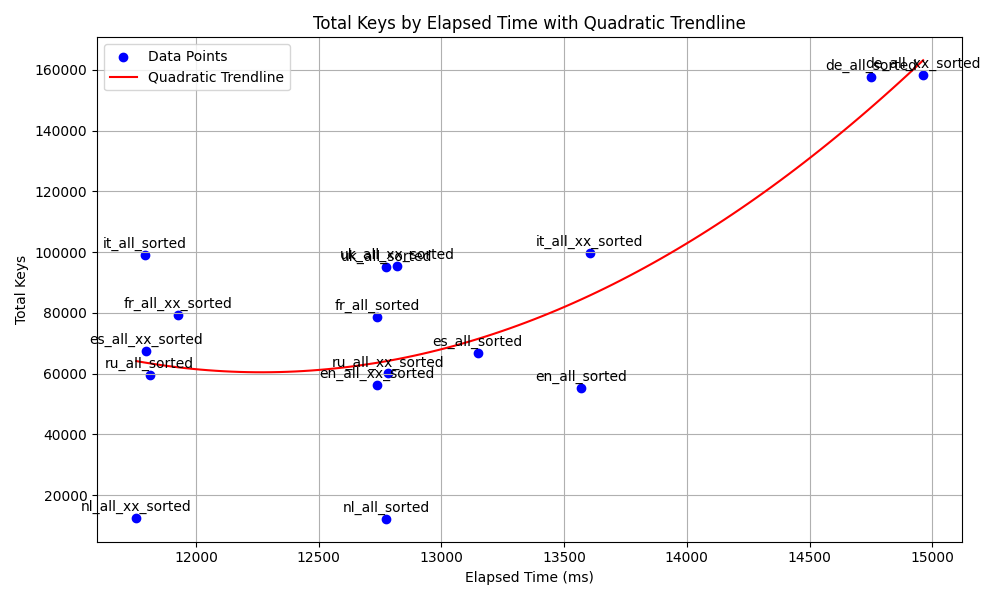
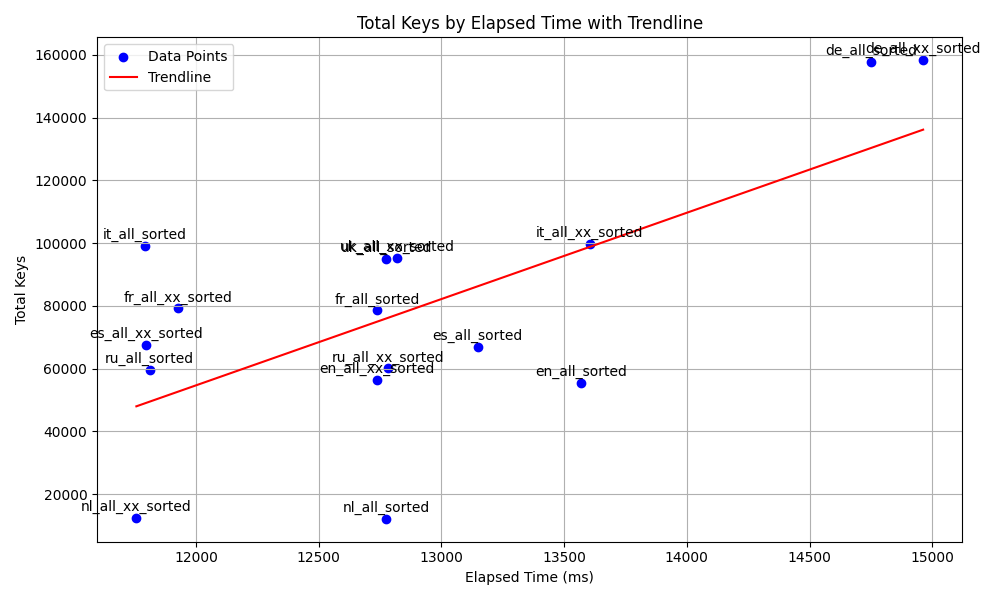
add runtime visualization and new stats JSON files; update plotting functions

diff --git a/output/visualize.py b/output/visualize.py
@@ -22,10 +22,10 @@ def plot_top_10():
             plt.close()
 
 def plot_top_10_in_one():
-    dirs = [d for d in os.listdir('.') if os.path.isdir(d) and d.endswith('_sorted') and "xx" in d]
+    dirs = [d for d in os.listdir('.') if os.path.isdir(d) and d.endswith('_sorted') and "xx" not in d]
     num_dirs = len(dirs)
     
-    cols = 3
+    cols = 4
     rows = math.ceil(num_dirs / cols)  # Calculate the number of rows needed
     
     fig, axs = plt.subplots(rows, cols, figsize=(15, 5 * rows))  # Create subplots
@@ -45,7 +45,7 @@ def plot_top_10_in_one():
         axs[j].axis('off')
     
     plt.tight_layout()
-    plt.savefig('all_sorted_xx_top10.png')  # Save the combined figure
+    plt.savefig('all_sorted_top10.png')  # Save the combined figure
     plt.close()
 
 
@@ -119,7 +119,7 @@ def plot_frequency_histogram_in_one():
     dirs = [d for d in os.listdir('.') if os.path.isdir(d) and d.endswith('_sorted') and "xx" in d]
     
     num_plots = len(dirs)
-    cols = 3
+    cols = 4
     rows = (num_plots + cols - 1) // cols  # Calculate number of rows needed
 
     plt.figure(figsize=(15, 5 * rows))  # Adjust figure size based on number of rows
@@ -133,7 +133,7 @@ def plot_frequency_histogram_in_one():
 
         plt.subplot(rows, cols, i + 1)  # Create a subplot in the grid
         plt.hist(counts, bins=100, log=True)
-        plt.title(f'Word Frequency Histogram for {subdir}')
+        plt.title(subdir)
         plt.xlabel('Frequency of the word')
         plt.ylabel('Number of words')
 
@@ -185,8 +185,8 @@ def plot_total_words_w_and_wo_stopwords():
     width = 0.4  # Width of the bars
 
     # Side by side bar chart
-    plt.bar([i - width/2 for i in x], total_words_without_stopwords, width=width, label='Without Stopwords', color='lightblue')
-    plt.bar([i + width/2 for i in x], total_words_with_stopwords, width=width, label='With Stopwords', color='blue')
+    plt.bar([i - width/2 for i in x], total_words_without_stopwords, width=width, label='With Stopwords', color='lightblue')
+    plt.bar([i + width/2 for i in x], total_words_with_stopwords, width=width, label='Without Stopwords', color='blue')
 
     # Calculate and annotate ratios
     for i in x:
@@ -223,7 +223,7 @@ def plot_total_words_by_elapsed_time():
     plt.scatter(elapsed_time, total_words, color='blue', label='Data Points')
 
     # Fit a quadratic polynomial to the data
-    coefficients = np.polyfit(elapsed_time, total_words, 2)
+    coefficients = np.polyfit(elapsed_time, total_words, 1)
     polynomial = np.poly1d(coefficients)
 
     # Create a range of x values for plotting the trendline
@@ -231,7 +231,7 @@ def plot_total_words_by_elapsed_time():
     y_values = polynomial(x_values)
 
     # Plot the trendline
-    plt.plot(x_values, y_values, color='red', label='Quadratic Trendline')
+    plt.plot(x_values, y_values, color='red', label='Trendline')
 
     # Annotate each point with the language key
     for i, lang in enumerate(languages):
@@ -239,7 +239,7 @@ def plot_total_words_by_elapsed_time():
 
     plt.xlabel('Elapsed Time (ms)')
     plt.ylabel('Total Words')
-    plt.title('Total Words by Elapsed Time with Quadratic Trendline')
+    plt.title('Total Words by Elapsed Time with Trendline')
     plt.grid()
     plt.legend()
     plt.tight_layout()
@@ -265,7 +265,7 @@ def plot_total_keys_by_elapsed_time():
     plt.scatter(elapsed_time, total_words, color='blue', label='Data Points')
 
     # Fit a quadratic polynomial to the data
-    coefficients = np.polyfit(elapsed_time, total_words, 2)
+    coefficients = np.polyfit(elapsed_time, total_words, 1)
     polynomial = np.poly1d(coefficients)
 
     # Create a range of x values for plotting the trendline
@@ -273,7 +273,7 @@ def plot_total_keys_by_elapsed_time():
     y_values = polynomial(x_values)
 
     # Plot the trendline
-    plt.plot(x_values, y_values, color='red', label='Quadratic Trendline')
+    plt.plot(x_values, y_values, color='red', label='Trendline')
 
     # Annotate each point with the language key
     for i, lang in enumerate(languages):
@@ -281,18 +281,38 @@ def plot_total_keys_by_elapsed_time():
 
     plt.xlabel('Elapsed Time (ms)')
     plt.ylabel('Total Keys')
-    plt.title('Total Keys by Elapsed Time with Quadratic Trendline')
+    plt.title('Total Keys by Elapsed Time with Trendline')
     plt.grid()
     plt.legend()
     plt.tight_layout()
     plt.savefig(f'tk_by_elapsed_time.png')
     plt.close()
 
+def plot_runtimes():
+    # load all files in dir with name like 'stats_*.json', use filename as series name and plot x value in file as "input size" and y value as "elapsed time"
+    files = [f for f in os.listdir('.') if os.path.isfile(f) and f.startswith('stats_') and f.endswith('.json')]
+
+    for file in files:
+        with open(file, 'r') as f:
+            data = json.load(f)
+            x = [d['x'] for d in data]
+            y = [d['y'] for d in data]
+            plt.plot(x, y, label=file.replace('.json', '').replace('stats_', ''))
+
+    plt.xlabel('Input Size (Bytes)')
+    plt.ylabel('Elapsed Time (ms)')
+    plt.title('Runtimes by Input Size')
+    plt.legend()
+    plt.tight_layout()
+    plt.savefig(f'runtimes.png')
+    plt.close()
+
+
 # print("Visualizing the output")
 
 # print("Top 10 words")
 # plot_top_10()
-# plot_top_10_in_one()
+plot_top_10_in_one()
 
 # print("Zipf plot")
 # plot_zipf()
@@ -311,3 +331,6 @@ plot_frequency_histogram_in_one()
 # plot_total_words_w_and_wo_stopwords()
 # plot_total_words_by_elapsed_time()
 # plot_total_keys_by_elapsed_time()
+
+# print("Runtimes")
+# plot_runtimes()
